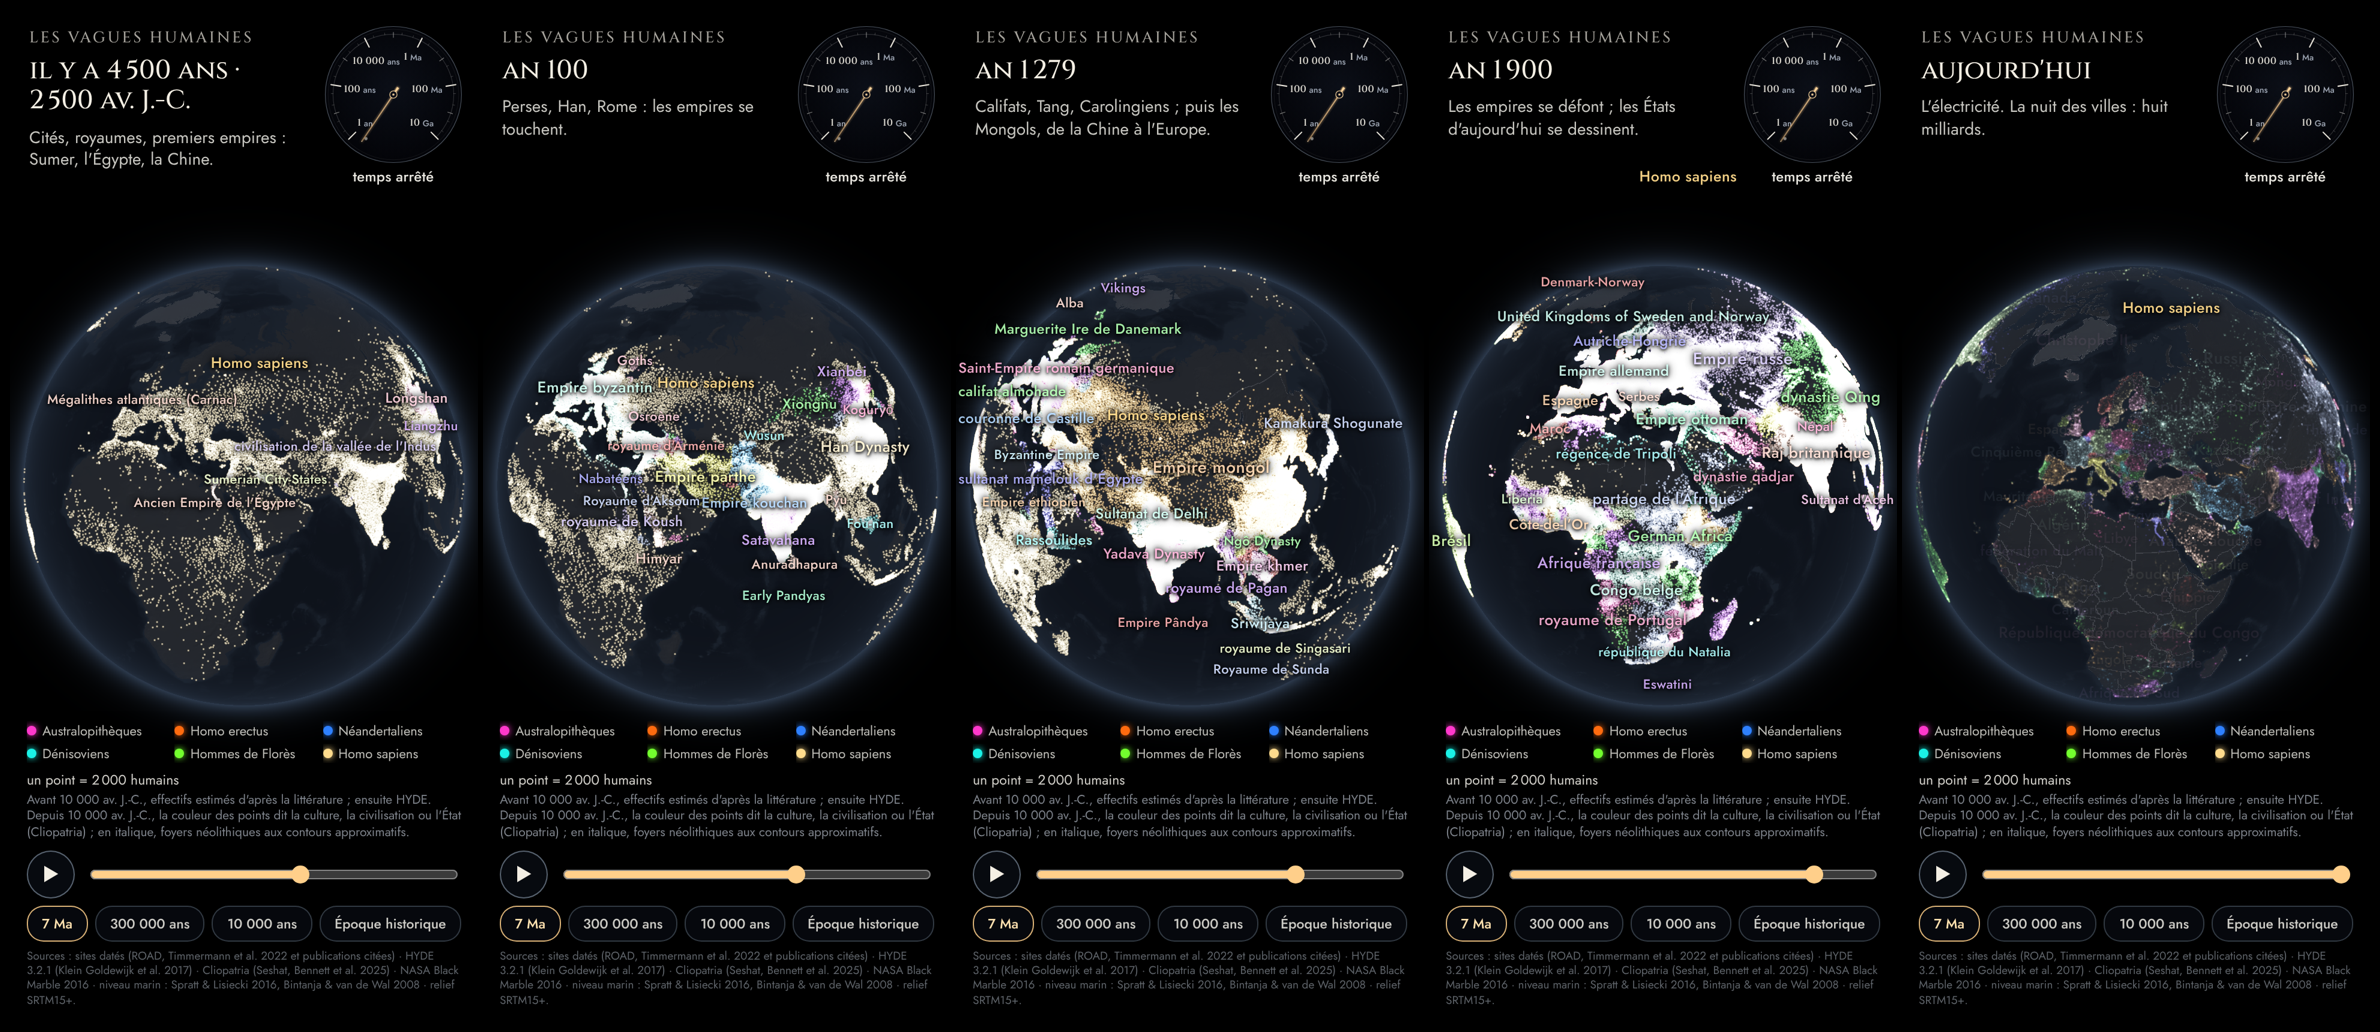
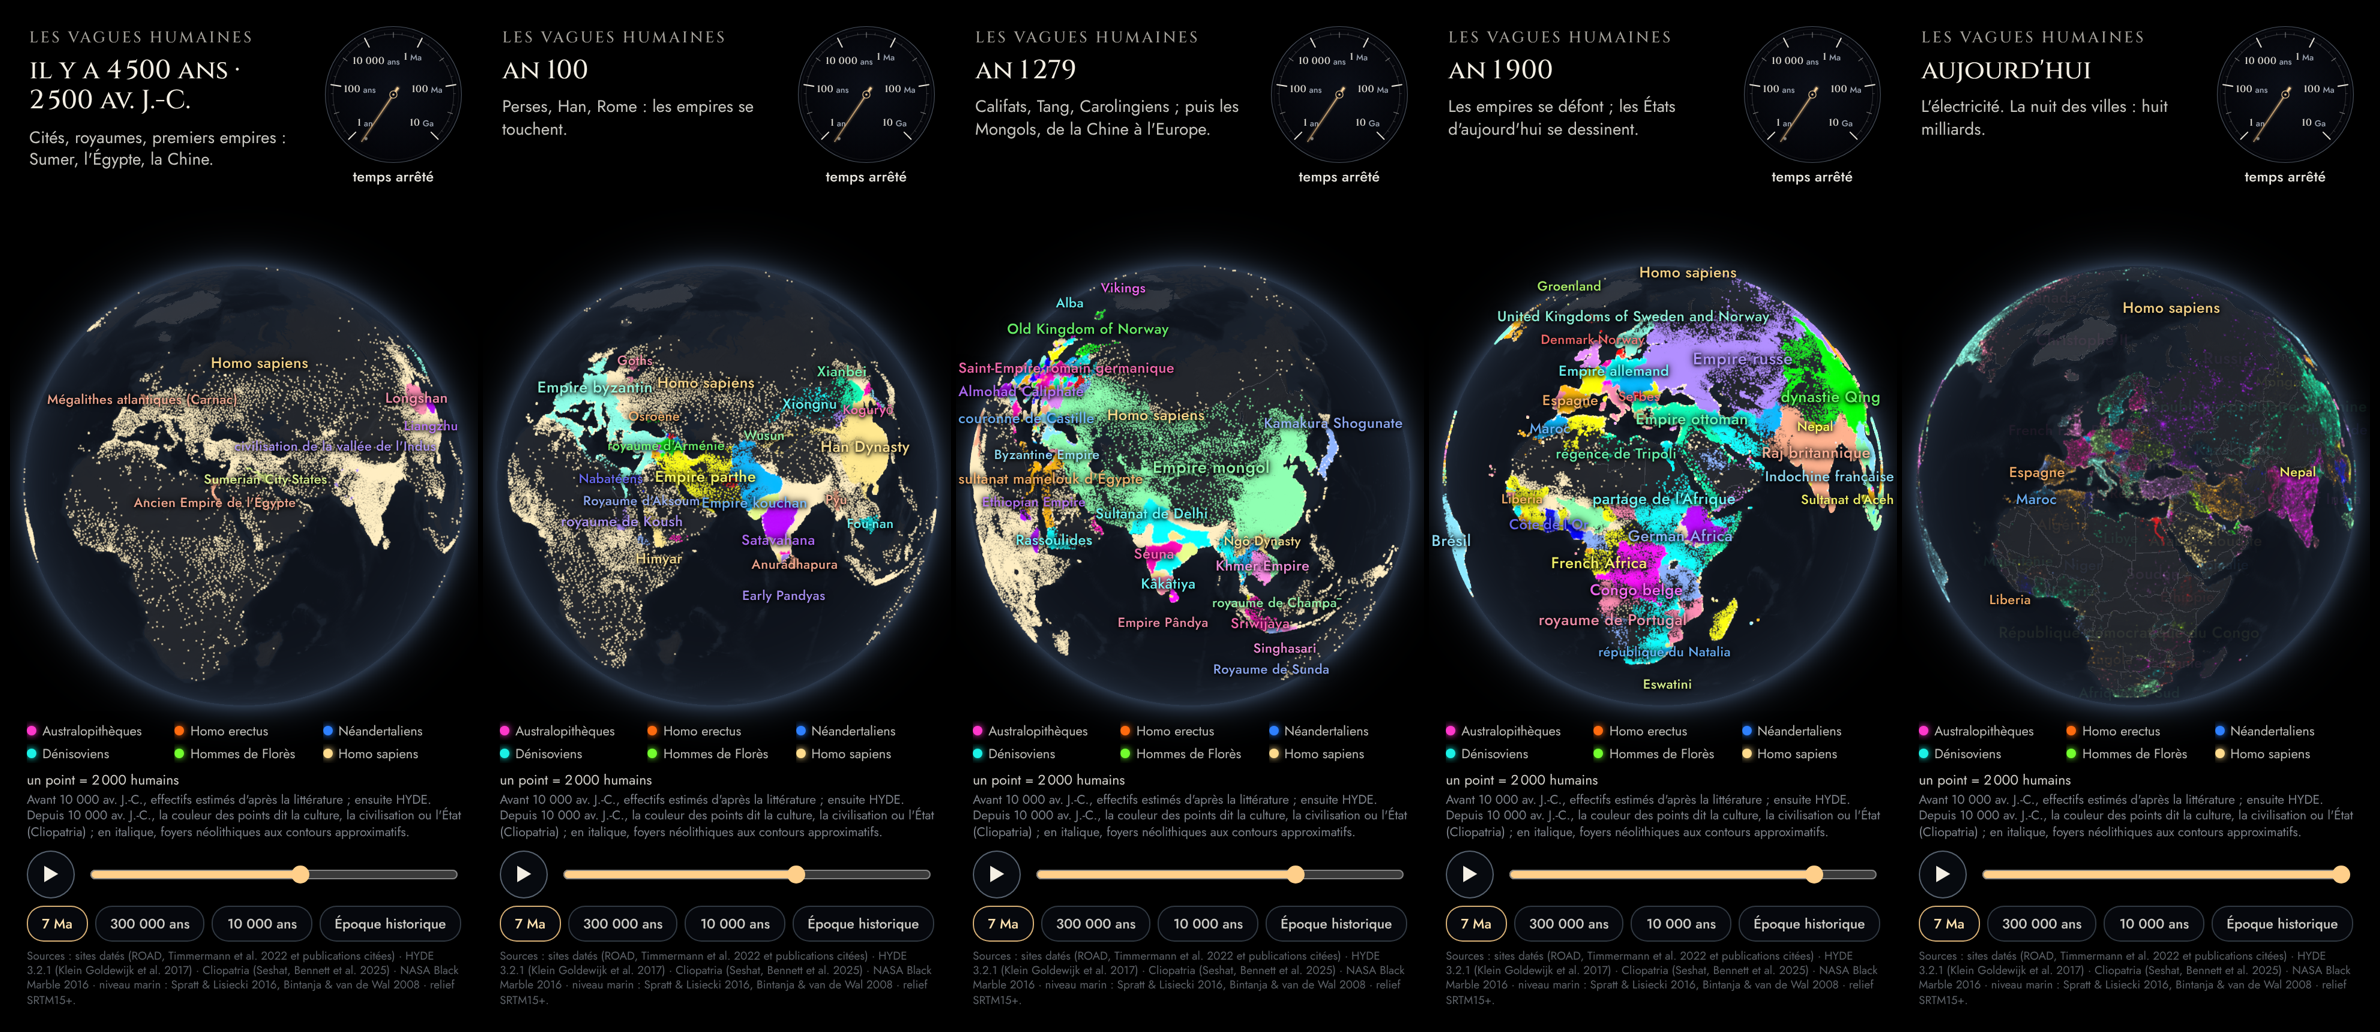
Humanité (S6) passage 4 : civilisations et empires (Cliopatria + foyers néolithiques), points colorés par entité, noms, liseré, ralentissement historique et bouton « Époque historique » ; 22/22 contrôles ; planche humanite-4
Claude-Session: https://claude.ai/code/session_01GHjNcfsgAps6dyjbvcRuYz

diff --git a/app/public/labo/humanite/index.html b/app/public/labo/humanite/index.html
@@ -68,8 +68,8 @@ const COULEUR = { hominines: [1.0, 0.22, 0.80], erectus: [1.0, 0.42, 0.06], nean
 const LIGNEE_DE = m => (m === 'sapiens1' ? 'sapiens' : m);
 const APLAT = 0.0;        // retour de Marc (23/11) : plus d'aplat de couleur, seulement des points
 const A0 = 20;
-// N39 : la lecture ralentit fortement à l'époque historique (× 0,06 après −3000, raccord sur 600 ans)
-function ralenti(age) { const an = 2023 - age; const w = Math.min(1, Math.max(0, (an + 3300) / 600)); return Math.exp(Math.log(0.06) * w * w * (3 - 2 * w)); }            // décalage de la loi de lecture (ans)
+// N39 : la lecture ralentit fortement à l'époque historique (× 0,06 dès −3000, raccord de −3600 à −3000)
+function ralenti(age) { const an = 2023 - age; const w = Math.min(1, Math.max(0, (an + 3600) / 600)); return Math.exp(Math.log(0.06) * w * w * (3 - 2 * w)); }            // décalage de la loi de lecture (ans)
 const C_LECTURE = 0.13;   // la lecture divise l'âge par e toutes les 7,7 s
 
 // ------------------------------------------------------------------ chargement
@@ -490,8 +490,8 @@ const progTon = programme(`#version 300 es
 in vec2 a; out vec2 v; void main() { v = a * 0.5 + 0.5; gl_Position = vec4(a, 0.0, 1.0); }`, `#version 300 es
 precision highp float; in vec2 v; out vec4 o; uniform sampler2D u_hdr; uniform float u_expo;
 void main() { vec3 x = texture(u_hdr, v).rgb * u_expo;
-  vec3 t = 1.0 - exp(-x); float l = max(t.r, max(t.g, t.b));
-  t = mix(t, vec3(l), smoothstep(0.75, 1.0, l) * 0.5);
+  // ton qui garde la teinte : la foule d'un empire reste de sa couleur au lieu de virer au blanc
+  float m = max(x.r, max(x.g, x.b)); vec3 t = m > 0.0 ? x / m * (1.0 - exp(-m)) : vec3(0.0);
   o = vec4(pow(t, vec3(1.0 / 2.2)), 1.0); }`);
 
 const quad = gl.createBuffer(); gl.bindBuffer(gl.ARRAY_BUFFER, quad); gl.bufferData(gl.ARRAY_BUFFER, new Float32Array([-1, -1, 1, -1, -1, 1, 1, 1]), gl.STATIC_DRAW);
@@ -757,7 +757,9 @@ function placerCiv(force) {
   const pris = [compteur.element.getBoundingClientRect(), haut];
   const vus = new Set();
   let n = 0;
-  for (const [id, lo, la, aire] of liste) {
+  // stabilité : les noms déjà affichés gardent leur place (pas de clignotement)
+  const ordre = [...liste].sort((p, q) => (ETIQC.get(q[0])?.el.style.opacity === '0.92') - (ETIQC.get(p[0])?.el.style.opacity === '0.92') || q[3] - p[3]);
+  for (const [id, lo, la, aire] of ordre) {
     if (n >= 28) break;
     const ph = la * Math.PI / 180, lm = lo * Math.PI / 180;
     const x = Math.cos(ph) * Math.sin(lm), y = Math.sin(ph), z = Math.cos(ph) * Math.cos(lm);
@@ -768,7 +770,7 @@ function placerCiv(force) {
     if (!o) { const el = document.createElement('div');
       el.style.cssText = 'position:absolute;left:0;top:0;white-space:nowrap;pointer-events:none;letter-spacing:0.02em;' +
         'text-shadow:0 0 4px #000,0 0 8px #000,0 1px 2px #000;opacity:0;transition:opacity 0.6s;';
-      el.style.color = `rgb(${ent.couleur.map(c => Math.round(150 + 0.42 * c)).join(',')})`;
+      el.style.color = `rgb(${ent.couleur.map(c => Math.round(110 + 0.57 * c)).join(',')})`;
       if (ent.flou) el.style.fontStyle = 'italic';
       el.textContent = ent.nom; coucheEtiq.appendChild(el); o = { el, id, ancre: [la, lo] }; ETIQC.set(id, o); }
     o.ancre = [la, lo];

diff --git a/app/public/labo/humanite/controles.py b/app/public/labo/humanite/controles.py
@@ -1027,7 +1027,7 @@ def c22_temps(page):
         a1 = page.evaluate('() => window.__hum.etat()')
         page.evaluate('() => window.__hum.lecture(false)')
         return (a0['age'] - a1['age']) / ((a1['horloge'] - a0['horloge']) / 1000), a1['age']
-    v1, x1 = vitesse(age_de(-3700))
+    v1, x1 = vitesse(age_de(-4300))
     v2, x2 = vitesse(age_de(-2800))
     if not (x1 > age_de(-3000) and x2 < age_de(-3000)):
         fautes.append(f'mesures mal placées ({2023 - x1:.0f}, {2023 - x2:.0f})')

diff --git a/chantiers/ETAT.md b/chantiers/ETAT.md
@@ -25,36 +25,38 @@ Départ (19/11/2026, 7 h 40) : `bake.py --check` sur `main` : 399 passés, 15 en
 Étape : attend S4.
 
 ## S6 — Humanité
-Étape : **passage 3 terminé** (23/11, retour de Marc de 17 h 25) — `labo/humanite/`, branche `chantier/humanite`.
-Contrôles : **17/17** sur la page servie (`controles-resultat.txt`) ; les nouveaux montrés
-d'abord en échec sur la version publiée (`controles-echec-passage3.txt` : 0/4).
-Planche : `chantiers/planches/humanite-3.png` (2 Ma, 100 000, 46 000, 10 000 ans, aujourd'hui).
+Étape : **passage 4 terminé** (24/11 ; demande de Marc du 23/11, 22 h 19 ; N38, N39, D-50) —
+`labo/humanite/`, branche `chantier/humanite`.
+Contrôles : **22/22** sur la page servie (`controles-resultat.txt`) ; C18–C22 montrés d'abord
+en échec sur la version publiée (`controles-echec-passage4.txt`, 0/5).
+Planche : `chantiers/planches/humanite-4.png` (−2500, 100, 1279, 1900, aujourd'hui).
 
-Passage 3 (règle 0 bis) :
-- **une seule représentation** (C12) : plus d'aplat de couleur (teinte des territoires nulle,
-  mesurée) ; avant 10 000 av. J.-C. les points ont la taille et l'éclat de ceux de
-  l'Holocène (mesurés à l'écran : identiques à 12 500 et 9 000 ans) ; un point = 2 000
-  humains partout ; plus de « feux » ni de foyers ;
-- **loi de densité** (C13, remplace le contrôle des foyers du passage 2) : points tirés sur
-  tout le territoire de la lignée, densité ∝ habitabilité moyenne (Timmermann 2022) ×
-  (1 + 3 × proximité des présences attestées : sites clés + table S1) ; indice de Clark et
-  Evans 0,94–1,45 (ni groupés ni réguliers), densité ×2,4 à ×3,4 à moins de 300 km des sites ;
-  sapiens glisse vers la carte HYDE de 10 000 av. J.-C. entre 20 000 et 13 000 ans ;
-- **étiquettes** (C16) : le nom de chaque lignée présente, posé sur le centre de son
-  territoire visible, sans chevauchement (ni entre elles ni avec le cadran) ; « arrive » dans
-  les premiers 15 % de sa vie, « s'efface(nt) » dans les derniers 15 % ;
-- **couleurs** (C17) : palette resserrée sur des teintes séparées (magenta, orange, bleu,
-  turquoise, vert, or) ; ΔE minimal 33 mesuré sur les crêtes des points dessinés ;
-- C14 (contact 60–30 ka) : 9 instants sur 16, sans plus aucun « aimant » de contact ;
-  C15 (Timmermann) inchangé, 98,2 %.
+Passage 4 :
+- **données** (workflow GitHub, `prepa/civilisations.py`) : Cliopatria v0.2.1 (14 000 enregistrements,
+  1 409 entités politiques, −3400 → 2024) + 36 foyers néolithiques (`prepa/neolithique.csv`,
+  disques aux contours approximatifs, en italique sur la page) ; carte « identifiant
+  d'entité » à 0,25° pour 248 pas de temps (200 ans avant −3400, puis 50, 25, 10, 5 ans ;
+  les 10 dates témoins sont des pas) : 2,0 Mo de cartes en paquets de 8 pas, chargés à la
+  demande, 0,57 Mo de métadonnées ; noms français Wikidata (933/1 409, les autres en anglais) ;
+  couleurs par coloriage des voisinages (0 paire voisine à ΔE < 30 sur 5 178) ;
+- **rendu** : les points restent les points de population (un point = 2 000 humains) ;
+  ils prennent la couleur de leur entité ; liseré discret de frontière ; ton qui garde la teinte
+  (les foules ne virent plus au blanc) ; noms posés sur le centre intérieur de chaque zone, les
+  plus grandes d'abord, sans chevauchement, en fondu, stables d'une image à l'autre ;
+- **temps** : lecture × 0,06 à partir de −3000 (raccord −3600 → −3000) : 763 an/s avant,
+  38 an/s après (× 20) ; bouton « Époque historique » qui saute à −3000 et lit ; −3000 → 2024
+  dure environ 8 minutes ;
+- C18 : 96,8 % à 100 % en surface aux 10 dates (shapely, indépendant du workflow) ; C19 : 100 %
+  des points à la couleur de leur entité ; C21 : 98 % de la surface des pays de Natural Earth
+  à leur entité en 2024 (4/131 grands pays partagés).
 
-Ce qui manque : avant l'Holocène, peu de points (honnête à 2 000 humains par point : 100 à
-1 000 points) et donc des continents peu lisibles de loin ; le liseré mêlé n'existe plus
-que par l'entremêlement des points des deux couleurs ; pas de calottes glaciaires (S4).
+Ce qui manque : 476 noms restent en anglais (pas de libellé Wikidata français) ; en 2024 les
+pays ont des couleurs vives sur les lumières de la nuit (choix de Marc), le « Black Marble »
+pur n'existe plus qu'en couleur unique hors des entités ; les petits pays d'aujourd'hui ne
+sont pas tous nommés (place) ; « aujourd'hui » = 2023 (HYDE), la carte 2024 sert à partir de 2024.
 
-Prochaine étape : jonction avec le globe de S3 ; régler la lisibilité des époques anciennes
-sans changer K (zoom automatique sur le territoire actif, par exemple) — arbitrage à
-soumettre si cela touche à la règle « un point = nombre fixe d'humains ».
+Prochaine étape : traduire les noms manquants (table de correspondance relue) ; zoom
+automatique sur une région pendant la lecture historique ; jonction avec le globe de S3.
 
 ### Question au maître (S6)
 Accès à HYDE 3.3 : le dépôt d'Utrecht (geo.public.data.uu.nl, public.yoda.uu.nl) répond
